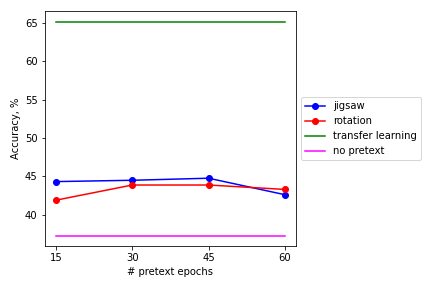
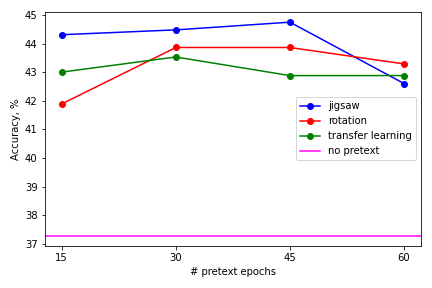
own transfer

diff --git a/paper/results.tex b/paper/results.tex
@@ -3,20 +3,27 @@
 
 \section{Results}
 
+\paragraph{Baseline results}
+\begin{itemize}
+    \item  $\overline{Accuracy} = 37.285  \%$
+    \item  $\overline{Miss \; rate} = 99.097 \%$
+\end{itemize}
 
 \begin{table}[ht]
     \begin{tabular}{|r|r|r|}
         \hline
-        Pre-training & \overline{Accuracy}, \% & \overline{Miss \; rate}, \% \\
+        \# Pre-text epochs & \overline{Accuracy}, \% & \overline{Miss \; rate}, \% \\
         \hline
-        ImageNet     & 65.176                  & 82.195                      \\
-        None         & 37.285                  & 99.017                      \\
+        15                 & 43.004                  & 100.0                       \\
+        30                 & 43.533                  & 100.0                       \\
+        45                 & 42.882                  & 100.0                       \\
+        60                 & 42.882                  & 100.0                       \\
         \hline
     \end{tabular}
-    \caption{\label{tab:table-0}Baseline results}
+    \caption{\label{tab:table-01}Transfer learning results}
 \end{table}
 
-\begin{table}[ht]
+\begin{table}[hb]
     \begin{tabular}{|r|r|r|}
         \hline
         \# Pre-text epochs & \overline{Accuracy}, \% & \overline{Miss \; rate}, \% \\
@@ -30,7 +37,7 @@
     \caption{\label{tab:table-1}Jigsaw results}
 \end{table}
 
-\begin{table}[ht]
+\begin{table}[h]
     \begin{tabular}{|r|r|r|}
         \hline
         \# Pre-text epochs & \overline{Accuracy}, \% & \overline{Miss \; rate}, \% \\

diff --git a/paper/main.tex b/paper/main.tex
@@ -27,7 +27,7 @@
 
 \title{
     Pretext Tasks: \\
-    do they help against adversarial attacks?
+    can they help against adversarial attacks?
 }
 \author{Artem Sereda artem.sereda@campus.tu-berlin.de}
 
